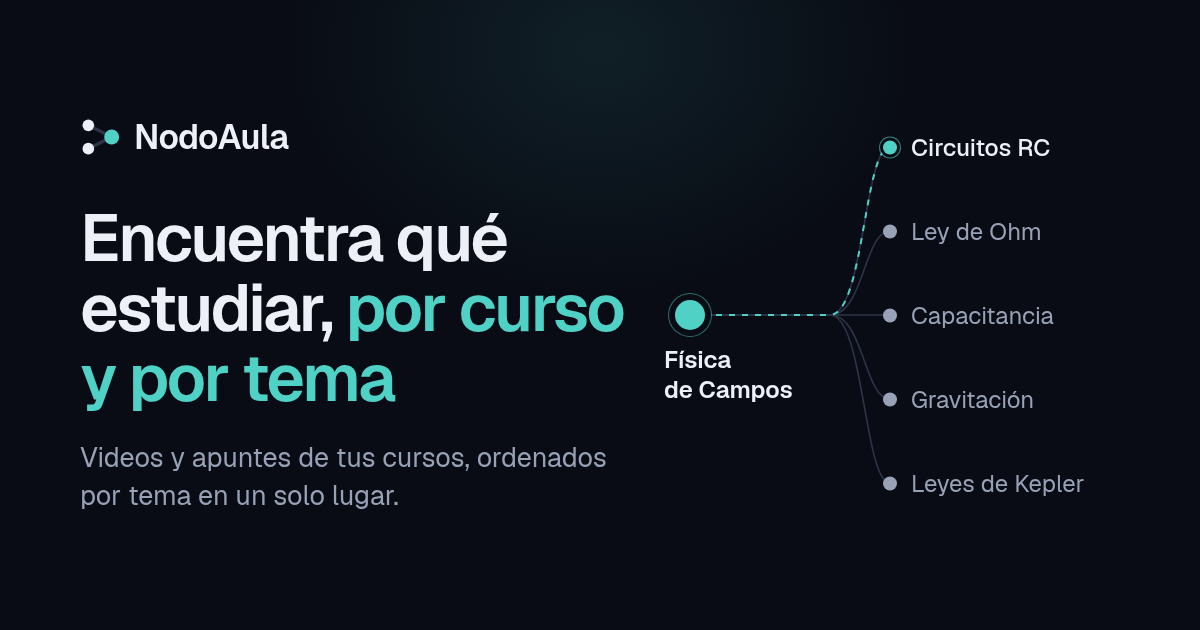
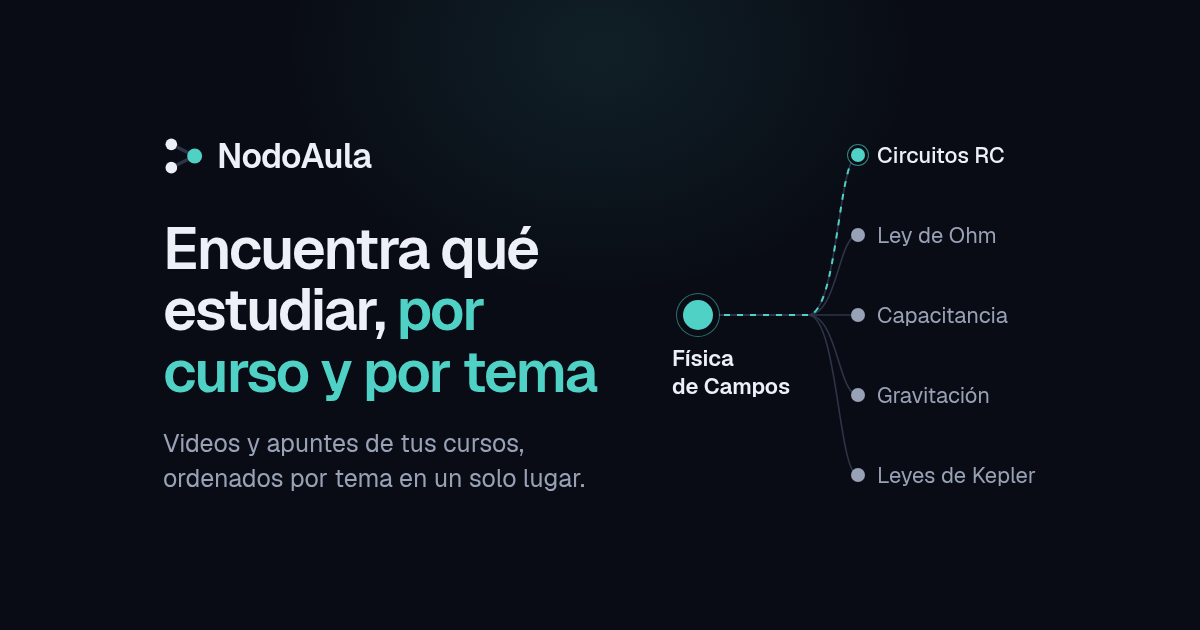
AB#304 Deja el contenido de la imagen al compartir dentro del recorte de la miniatura de WhatsApp

diff --git a/frontend/index.html b/frontend/index.html
@@ -18,7 +18,7 @@
     <meta property="og:title" content="NodoAula · Encuentra qué estudiar, por curso y por tema" />
     <meta property="og:description" content="Videos y apuntes de tus cursos, ordenados por tema en un solo lugar. Consultarlo es gratis." />
     <meta property="og:locale" content="es_CO" />
-    <meta property="og:image" content="https://nodoaula.onrender.com/og-image.png" />
+    <meta property="og:image" content="https://nodoaula.onrender.com/og-image.png?v=2" />
     <meta property="og:image:width" content="1200" />
     <meta property="og:image:height" content="630" />
     <meta property="og:image:alt" content="Logo de NodoAula, el titular «Encuentra qué estudiar, por curso y por tema» y una gráfica que une el curso Física de Campos con sus temas." />
